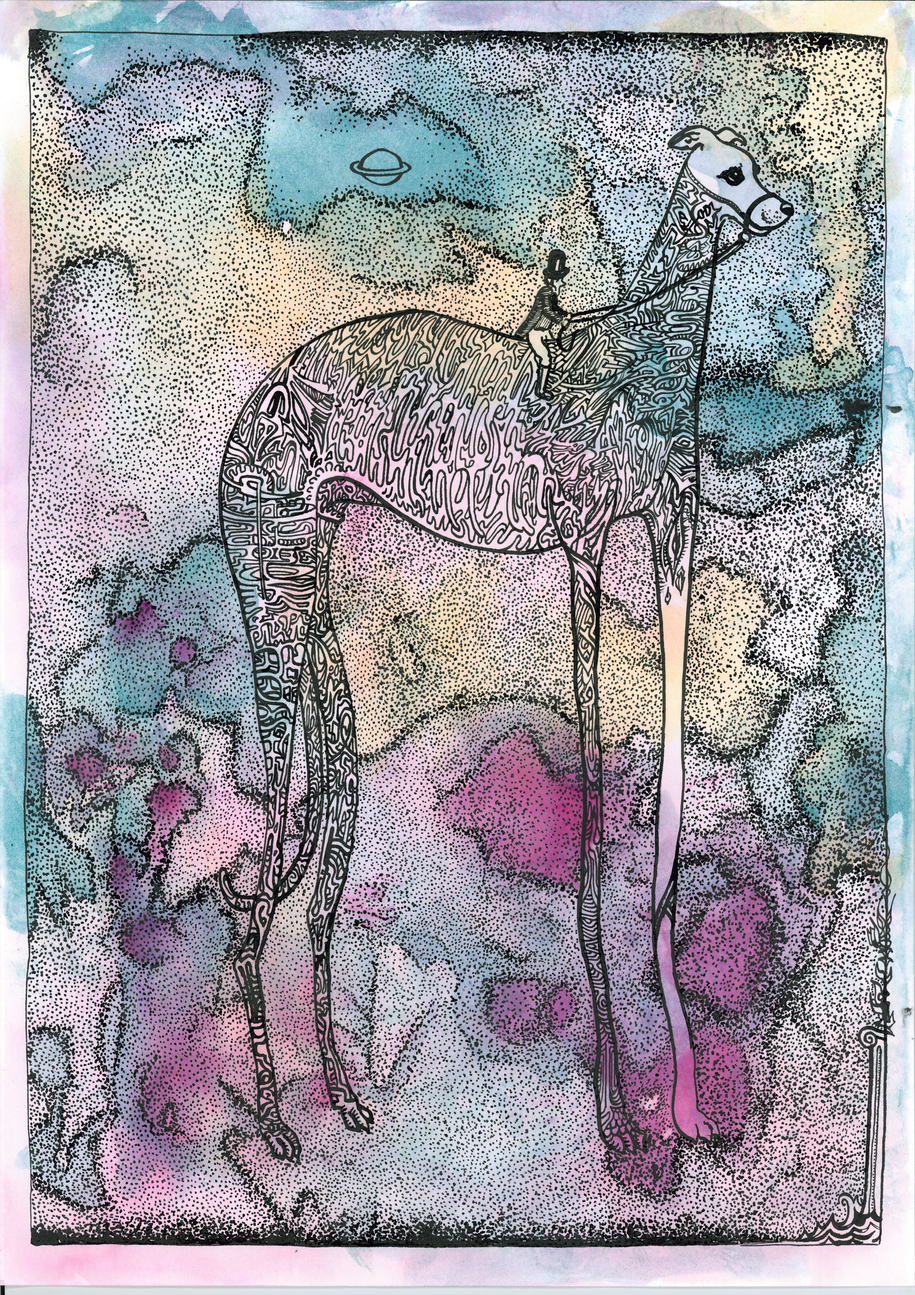
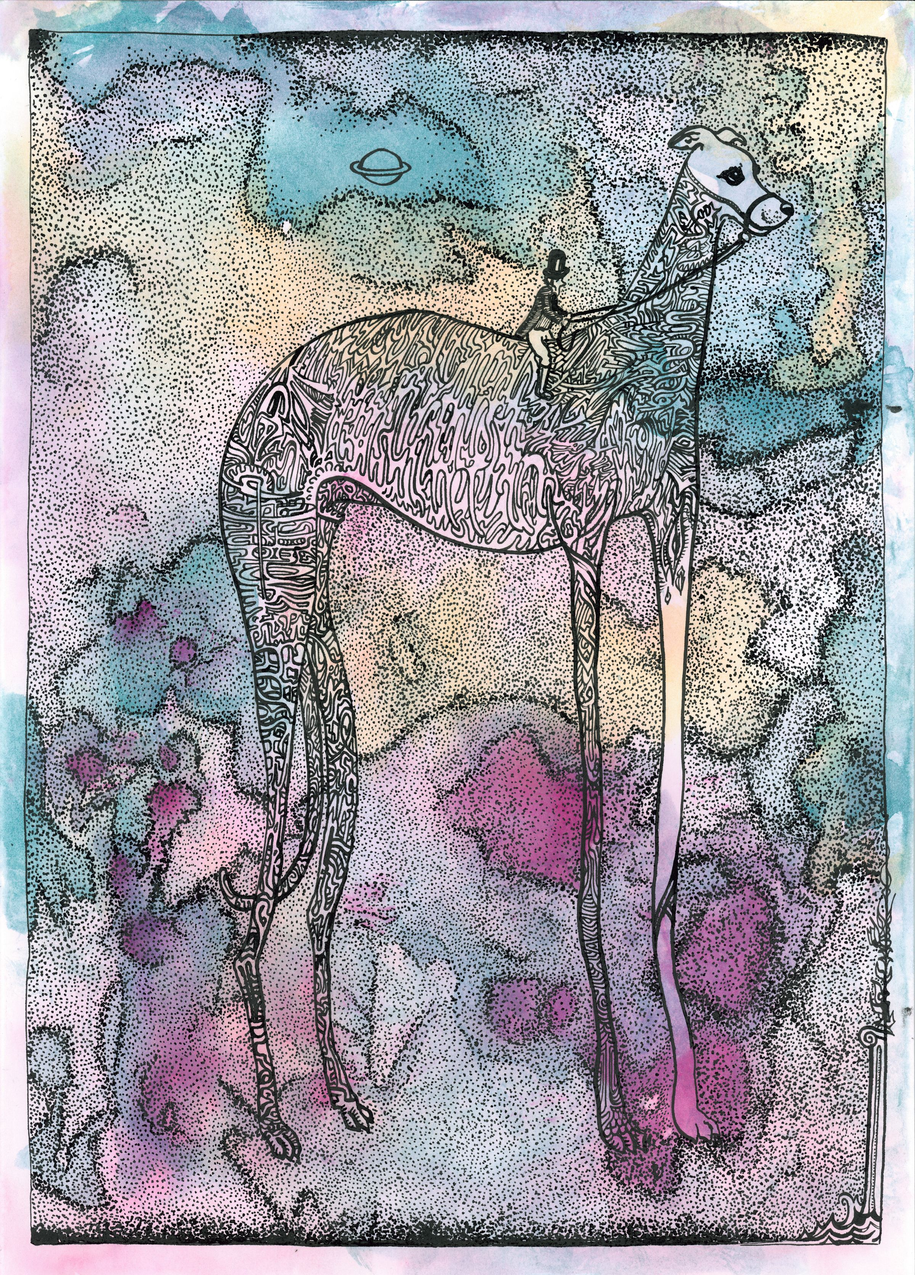
Crop drawing 2's bottom margin, fix cursors on the new gallery/slider
Drawing 2 (the loose watercolor piece) had ~150px of blank paper
below where the wash actually ends - trimmed on both the thumbnail
and full-res slider versions.

Also the gallery thumbnails and slider nav/close buttons were setting
cursor:pointer directly, overriding the site's custom cursor-hand.png
("patte de souris") inherited from the global a/button rule. Removed
those overrides so every button uses the same hand cursor as the rest
of the site, with the slider image keeping its own zoom-in/zoom-out
loupe cursors.

diff --git a/styles.css b/styles.css
@@ -538,7 +538,7 @@ body.lightbox-locked { overflow: hidden; }
    toujours sur une seule ligne, quelle que soit la largeur d'écran, sans
    réglages par palier - même cadre noir que .comodoro-art/.video-art. */
 .comodoro-gallery { display: flex; justify-content: center; gap: 3%; max-width: 1440px; margin: 1.5rem auto 2rem; padding: 0 1rem; }
-.comodoro-gallery-item { flex: 1 1 0; min-width: 0; max-width: 270px; padding: 0; border: none; background: none; cursor: pointer; }
+.comodoro-gallery-item { flex: 1 1 0; min-width: 0; max-width: 270px; padding: 0; border: none; background: none; }
 .comodoro-gallery-item img { display: block; width: 100%; height: auto; border: 3px solid #000; border-radius: 2px; box-shadow: 0 2px 8px rgba(0,0,0,.25); transition: transform .15s ease; }
 .comodoro-gallery-item:hover img, .comodoro-gallery-item:focus-visible img { transform: translateY(-3px); }
 
@@ -562,7 +562,7 @@ body.lightbox-locked { overflow: hidden; }
 .comodoro-slider-img.is-zoomed { max-width: none; max-height: none; width: auto; cursor: url('cursor-zoom-out.png?v=2') 10 10, zoom-out; }
 .comodoro-slider-close, .comodoro-slider-prev, .comodoro-slider-next {
   position: absolute; border: none; background: rgba(0,0,0,.08); color: var(--rouge);
-  font-size: 1.6rem; line-height: 1; cursor: pointer; border-radius: 50%;
+  font-size: 1.6rem; line-height: 1; border-radius: 50%;
   width: 2.6rem; height: 2.6rem; display: flex; align-items: center; justify-content: center;
   transition: background .15s ease;
 }

diff --git a/mentions-legales-ro.html b/mentions-legales-ro.html
@@ -13,7 +13,7 @@
 <meta property="og:description" content="Mențiuni legale și politica de confidențialitate a site-ului Comodoro Süleyman.">
 <meta property="og:url" content="https://comodorosuleyman.com/mentions-legales-ro.html">
 <link rel="icon" type="image/png" href="favicon.png">
-<link rel="stylesheet" href="styles.css?v=198">
+<link rel="stylesheet" href="styles.css?v=199">
 </head>
 <body><main class="argumentum-page legal-page">
   <h1>Mențiuni legale</h1>

diff --git a/mentions-legales-fr.html b/mentions-legales-fr.html
@@ -13,7 +13,7 @@
 <meta property="og:description" content="Mentions légales et politique de confidentialité du site Comodoro Süleyman.">
 <meta property="og:url" content="https://comodorosuleyman.com/mentions-legales-fr.html">
 <link rel="icon" type="image/png" href="favicon.png">
-<link rel="stylesheet" href="styles.css?v=198">
+<link rel="stylesheet" href="styles.css?v=199">
 </head>
 <body><main class="argumentum-page legal-page">
   <h1>Mentions légales</h1>

diff --git a/mentions-legales.html b/mentions-legales.html
@@ -13,7 +13,7 @@
 <meta property="og:description" content="Legal notice and privacy information for the Comodoro Süleyman website.">
 <meta property="og:url" content="https://comodorosuleyman.com/mentions-legales.html">
 <link rel="icon" type="image/png" href="favicon.png">
-<link rel="stylesheet" href="styles.css?v=198">
+<link rel="stylesheet" href="styles.css?v=199">
 </head>
 <body><main class="argumentum-page legal-page">
   <h1>Legal Notice</h1>

diff --git a/mentions-legales-es.html b/mentions-legales-es.html
@@ -13,7 +13,7 @@
 <meta property="og:description" content="Aviso legal y política de privacidad del sitio Comodoro Süleyman.">
 <meta property="og:url" content="https://comodorosuleyman.com/mentions-legales-es.html">
 <link rel="icon" type="image/png" href="favicon.png">
-<link rel="stylesheet" href="styles.css?v=198">
+<link rel="stylesheet" href="styles.css?v=199">
 </head>
 <body><main class="argumentum-page legal-page">
   <h1>Aviso legal</h1>

diff --git a/comodoro-es.html b/comodoro-es.html
@@ -17,7 +17,7 @@
 <meta property="og:image:height" content="1623">
 <meta name="twitter:card" content="summary_large_image">
 <link rel="icon" type="image/png" href="favicon.png">
-<link rel="stylesheet" href="styles.css?v=198">
+<link rel="stylesheet" href="styles.css?v=199">
 </head>
 <body class="comodoro-page">
 <nav class="lang-selector" aria-label="Language">

diff --git a/comodoro-fr.html b/comodoro-fr.html
@@ -17,7 +17,7 @@
 <meta property="og:image:height" content="1623">
 <meta name="twitter:card" content="summary_large_image">
 <link rel="icon" type="image/png" href="favicon.png">
-<link rel="stylesheet" href="styles.css?v=198">
+<link rel="stylesheet" href="styles.css?v=199">
 </head>
 <body class="comodoro-page">
 <nav class="lang-selector" aria-label="Language">

diff --git a/comodoro-ro.html b/comodoro-ro.html
@@ -17,7 +17,7 @@
 <meta property="og:image:height" content="1623">
 <meta name="twitter:card" content="summary_large_image">
 <link rel="icon" type="image/png" href="favicon.png">
-<link rel="stylesheet" href="styles.css?v=198">
+<link rel="stylesheet" href="styles.css?v=199">
 </head>
 <body class="comodoro-page">
 <nav class="lang-selector" aria-label="Language">

diff --git a/comodoro.html b/comodoro.html
@@ -17,7 +17,7 @@
 <meta property="og:image:height" content="1623">
 <meta name="twitter:card" content="summary_large_image">
 <link rel="icon" type="image/png" href="favicon.png">
-<link rel="stylesheet" href="styles.css?v=198">
+<link rel="stylesheet" href="styles.css?v=199">
 </head>
 <body class="comodoro-page">
 <nav class="lang-selector" aria-label="Language">

diff --git a/contact-es.html b/contact-es.html
@@ -17,7 +17,7 @@
 <meta property="og:image:height" content="1623">
 <meta name="twitter:card" content="summary_large_image">
 <link rel="icon" type="image/png" href="favicon.png">
-<link rel="stylesheet" href="styles.css?v=198">
+<link rel="stylesheet" href="styles.css?v=199">
 </head>
 <body class="contact-page">
 <nav class="lang-selector" aria-label="Language">

diff --git a/contact-fr.html b/contact-fr.html
@@ -17,7 +17,7 @@
 <meta property="og:image:height" content="1623">
 <meta name="twitter:card" content="summary_large_image">
 <link rel="icon" type="image/png" href="favicon.png">
-<link rel="stylesheet" href="styles.css?v=198">
+<link rel="stylesheet" href="styles.css?v=199">
 </head>
 <body class="contact-page">
 <nav class="lang-selector" aria-label="Language">

diff --git a/contact-ro.html b/contact-ro.html
@@ -17,7 +17,7 @@
 <meta property="og:image:height" content="1623">
 <meta name="twitter:card" content="summary_large_image">
 <link rel="icon" type="image/png" href="favicon.png">
-<link rel="stylesheet" href="styles.css?v=198">
+<link rel="stylesheet" href="styles.css?v=199">
 </head>
 <body class="contact-page">
 <nav class="lang-selector" aria-label="Language">
